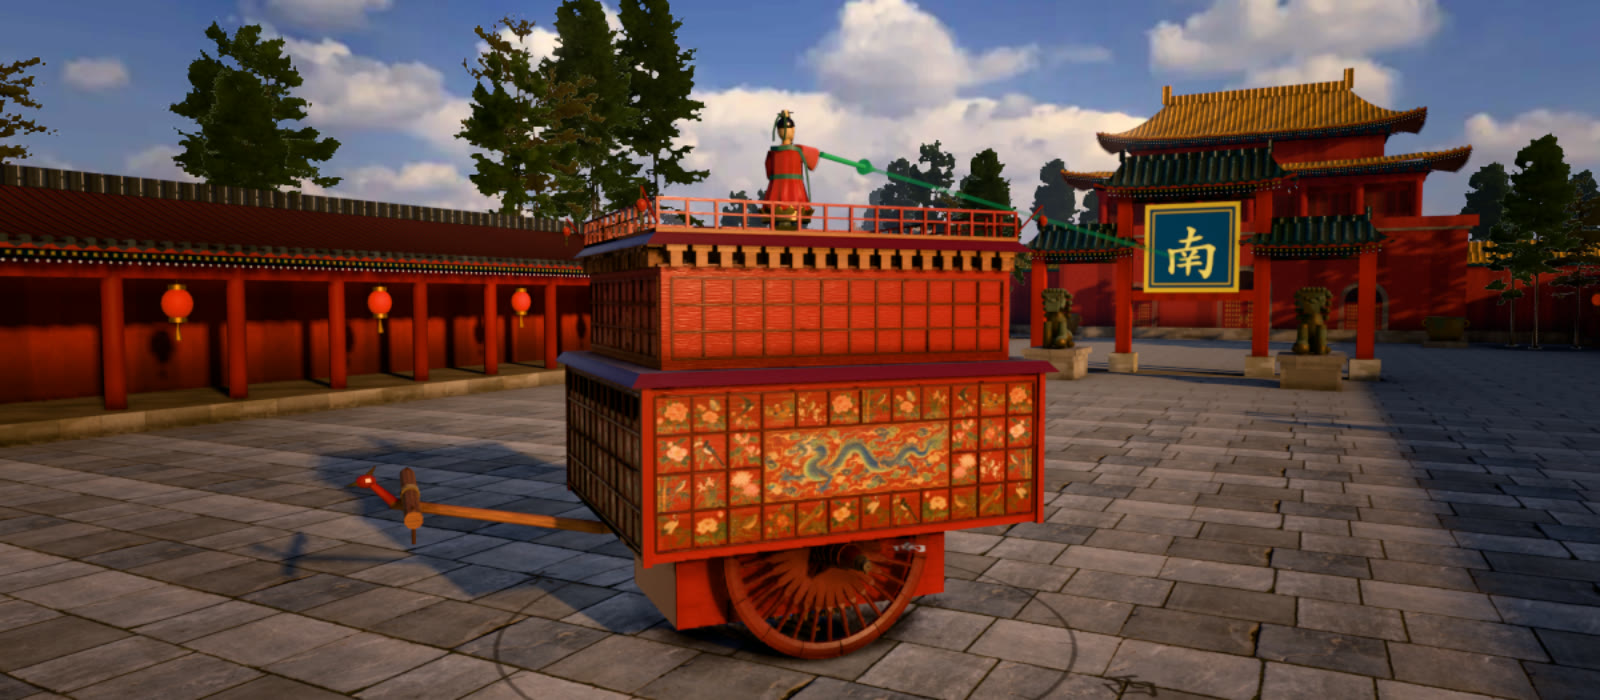
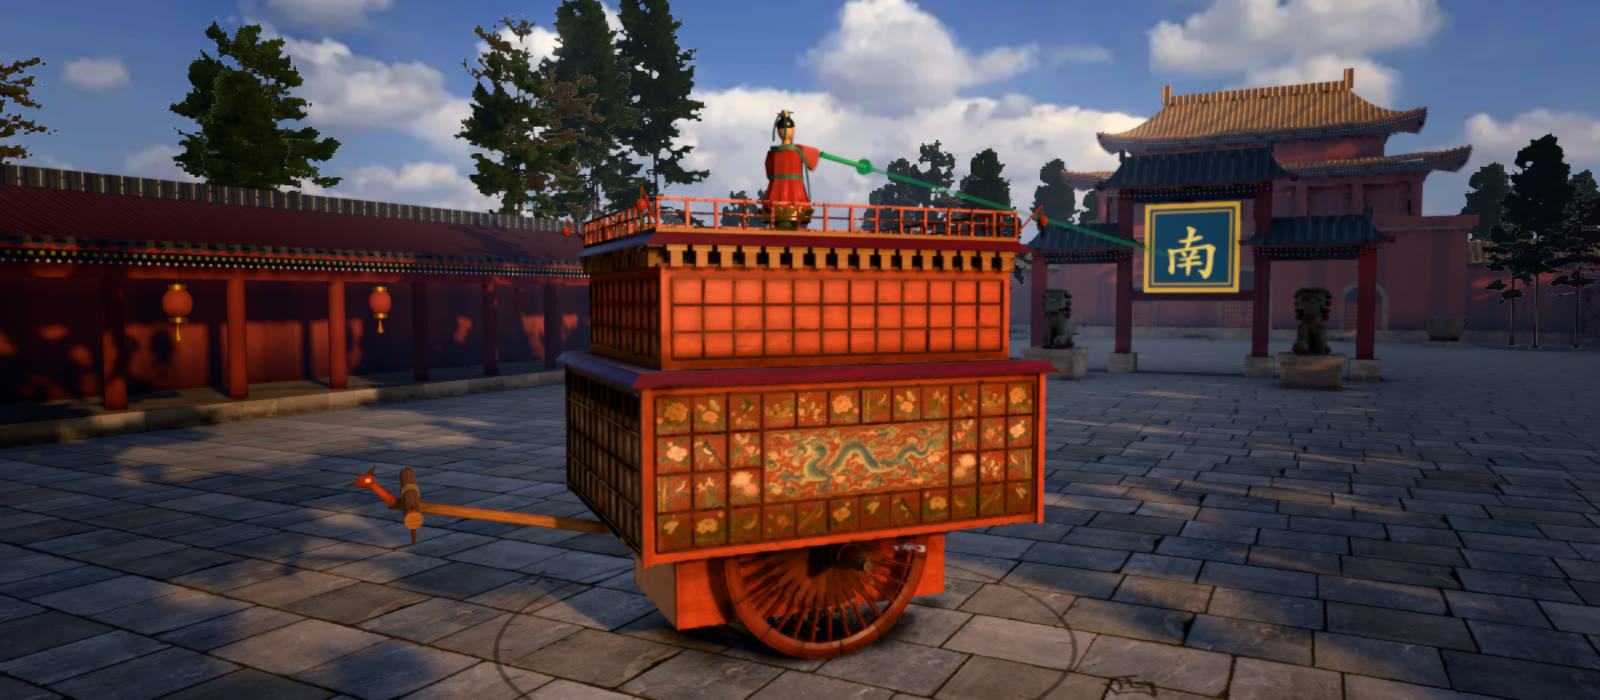
Promo images redone on c68ee24 (art, texture and camera rounds): og from higher up so the red chariots stand on the grey paving, not the red wall; the README loop 50° further round so the pointer runs across to the gate, starting and ending side-on with the near wheel showing; hero on the old camera

diff --git a/tools/promo/shots-gif.js b/tools/promo/shots-gif.js
@@ -1,5 +1,7 @@
 // README loop: the chariot turns exactly once on the spot (6 s), the camera
-// is still, on the sunny side; the gate on the right, the figure's hand on it all the way round.
+// is still, on the sunny side, 50° west of looking due south (as far round as
+// keeps the gate in, decision 0015) so the figure's pointer runs across the
+// picture to the gate on the right; it starts and ends side-on, the near wheel showing.
 (() => {
   const PRE = 1.0, LAP = 6.0;
   window.__T = { from: PRE, end: PRE + LAP };
@@ -7,12 +9,12 @@
   window.__shot = (st, P) => {
     if (!placed) {
       placed = true;
-      window.__place(0, 0, Math.PI / 2 + 0.3);
+      window.__place(0, 0, Math.PI / 4);
       P.app.state.speed = (2 * Math.PI) / LAP / 0.9;
     }
-    st.cmd = { fwd: 0, turn: -1 };
+    st.cmd = { fwd: 0, turn: window.__hold ? 0 : -1 }; // held still while rec.mjs waits for the picture to settle
     st.fov = 44;
-    st.cam = { pos: [-14, 9, -26], target: [6, 8, 14] };
+    st.cam = { pos: [-26.05, 6.5, -21.85], target: [-6.83, 6.3, 1.19] };
     st.dof = false;
   };
 })();

diff --git a/en.html b/en.html
@@ -23,7 +23,7 @@
     <meta property="og:image" content="https://hoveychen.github.io/zhinanche/images/og.en.jpg" />
     <meta property="og:image:width" content="1200" />
     <meta property="og:image:height" content="630" />
-    <meta property="og:image:alt" content="The same wooden cart three times as it turns round in a palace courtyard; each time the little wooden man on top points his arm at the red South Gate" />
+    <meta property="og:image:alt" content="The same red-lacquered, box-bodied chariot three times on the paving of a palace courtyard, turned three ways; each time the little wooden man on top points his arm at the South Gate in the top right" />
     <meta property="og:locale" content="en_US" />
     <meta property="og:locale:alternate" content="zh_CN" />
     <meta name="twitter:card" content="summary_large_image" />

diff --git a/index.html b/index.html
@@ -22,7 +22,7 @@
     <meta property="og:image" content="https://hoveychen.github.io/zhinanche/images/og.jpg" />
     <meta property="og:image:width" content="1200" />
     <meta property="og:image:height" content="630" />
-    <meta property="og:image:alt" content="同一辆木车在宫殿庭院里转了三个方向，车上的木人每次都伸手指着南门的红牌楼" />
+    <meta property="og:image:alt" content="同一辆红漆宽箱车在宫殿庭院的石板地上转了三个方向，车顶的木人每次都伸手指着右上角的南门" />
     <meta property="og:locale" content="zh_CN" />
     <meta property="og:locale:alternate" content="en_US" />
     <meta name="twitter:card" content="summary_large_image" />

diff --git a/tools/promo/plan.py b/tools/promo/plan.py
@@ -1,0 +1,28 @@
+import math, json, sys
+# Camera yaw that puts the gate (0, 105) at screen x = gate_s, and chariot spots at screen x = s1.. at distance dist.
+# plan.py camx camz camy fov aspect gate_s "s1,s2,s3" dist targety
+cx, cz, cy, fov, asp, gs = map(float, sys.argv[1:7]); ss = [float(v) for v in sys.argv[7].split(',')]; D = float(sys.argv[8]); ty = float(sys.argv[9])
+th = math.tan(math.radians(fov / 2)) * asp
+gx, gz = 0.0, 105.0
+ang_g = math.atan2(gz - cz, gx - cx)   # direction to gate in xz
+# screen-right r = cross(f, up) = (-fz, 0, fx) ; s = dot(p-C, r)/(dot(p-C,f)*th)
+# yaw a: f=(cos a, sin a). For gate at s=gs: tan(angle offset) = gs*th, the gate is to the screen right.
+# r = (-sin a, cos a)... dot(g, r) = |g| sin(ang_g - a)*(-1)? solve numerically
+def s_of(a, px, pz):
+    fx, fz = math.cos(a), math.sin(a); rx, rz = -fz, fx
+    # three: right = cross(f, up) with up=y: (fy*0 - fz*1, fz*0 - fx*0, fx*1 - fy*0) = (-fz, 0, fx)
+    dx, dz = px - cx, pz - cz
+    return (dx * rx + dz * rz) / ((dx * fx + dz * fz) * th)
+lo, hi = ang_g - 1.2, ang_g + 1.2
+for _ in range(80):
+    m = (lo + hi) / 2
+    if (s_of(m, gx, gz) - gs) * (s_of(lo, gx, gz) - gs) <= 0: hi = m
+    else: lo = m
+a = (lo + hi) / 2
+fx, fz = math.cos(a), math.sin(a); rx, rz = -fz, fx
+poses = []
+for s in ss:
+    px = cx + D * fx + s * D * th * rx; pz = cz + D * fz + s * D * th * rz
+    poses.append([round(px, 2), round(pz, 2)])
+T = [round(cx + 30 * fx, 2), ty, round(cz + 30 * fz, 2)]
+print(json.dumps({"pos": [cx, cy, cz], "target": T}), json.dumps(poses), 'check gate s', round(s_of(a, gx, gz), 3))

diff --git a/tools/promo/cmp.py b/tools/promo/cmp.py
@@ -1,0 +1,29 @@
+# cmp.py BEFORE_DIR AFTER_DIR OUT_DIR: old-vs-new sheets of the six README/og images (GIFs: 3 frames each)
+import sys
+from PIL import Image, ImageDraw, ImageFont, ImageSequence
+F=ImageFont.truetype('/System/Library/Fonts/Helvetica.ttc',26)
+def lab(im,t):
+    im=im.convert('RGB')
+    if t:
+        d=ImageDraw.Draw(im); w=d.textlength(t,font=F); d.rectangle([0,0,w+20,40],fill=(0,0,0)); d.text((10,6),t,fill='white',font=F)
+    return im
+def grid(rows,out,w):
+    rows=[[lab(im.resize((w,int(im.height*w/im.width)),Image.LANCZOS),t) for im,t in r] for r in rows]
+    H=sum(max(i.height for i in r) for r in rows); W=max(sum(i.width for i in r) for r in rows)
+    o=Image.new('RGB',(W,H),'white'); y=0
+    for r in rows:
+        x=0
+        for i in r: o.paste(i,(x,y)); x+=i.width
+        y+=max(i.height for i in r)
+    o.save(out,quality=88)
+def frames(p,idx):
+    fs=[f.copy() for f in ImageSequence.Iterator(Image.open(p))]; return [fs[i] for i in idx], len(fs)
+B, A, D = (a.rstrip('/') + '/' for a in sys.argv[1:4])
+O=Image.open
+for n in ['og.jpg','og.en.jpg','readme-hero.jpg','readme-hero.en.jpg']:
+    grid([[(O(B+n),'OLD '+n)],[(O(A+n),'NEW '+n)]],D+'cmp-'+n.replace('.jpg','')+'.jpg',1200)
+grid([[(O(B+'og.jpg'),'OLD 500px'),(O(A+'og.jpg'),'NEW 500px (thumbnail)')]],D+'cmp-og-thumb.jpg',500)
+for g in ['readme-lap','readme-lap.en']:
+    ob,n1=frames(B+g+'.gif',[0,18,40]); nw,n2=frames(A+g+'.gif',[0,18,40])
+    print(g,n1,n2)
+    grid([[(f,'OLD f%d'%i) for f,i in zip(ob,[0,18,40])],[(f,'NEW f%d'%i) for f,i in zip(nw,[0,18,40])]],D+f'cmp-{g}.jpg',560)

diff --git a/tools/promo/comp3.py b/tools/promo/comp3.py
@@ -1,0 +1,23 @@
+# comp3.py DIR N alphas [order far->near]
+# poseI.png (car + its shadow), poseIns.png (car, no shadow), bg.png (no car).
+# Body mask = poseIns vs bg; shadow = poseI / poseIns outside the body. All shadows are
+# multiplied in first, then the bodies far to near, so no car's shadow lands on another's body.
+import sys
+import numpy as np
+from PIL import Image, ImageFilter
+d = sys.argv[1]; n = int(sys.argv[2]); al = [float(a) for a in sys.argv[3].split(',')]
+order = [int(i) for i in sys.argv[4].split(',')] if len(sys.argv) > 4 else list(range(n))
+L = lambda p: np.asarray(Image.open(p).convert('RGB')).astype(np.float32)
+def blur(m, r=1.0):
+    return np.asarray(Image.fromarray((np.clip(m, 0, 1) * 255).astype(np.uint8)).filter(ImageFilter.GaussianBlur(r))).astype(np.float32) / 255
+bg = L(f'{d}/bg.png'); out = bg.copy(); bodies = []
+for i in range(n):
+    im = L(f'{d}/pose{i}.png'); ns = L(f'{d}/pose{i}ns.png')
+    m = blur(np.clip((np.abs(ns - bg).max(axis=2) - 6) / 18, 0, 1))
+    r = np.clip((im + 2) / (ns + 2), 0, 1)
+    out = out * (1 - (1 - r) * (1 - m)[..., None] * al[i])
+    bodies.append((im, m))
+for i in order:
+    im, m = bodies[i]; a = (m * al[i])[..., None]
+    out = out * (1 - a) + im * a
+Image.fromarray(out.clip(0, 255).astype(np.uint8)).save(f'{d}/comp.png')

diff --git a/tools/promo/README.md b/tools/promo/README.md
@@ -1,0 +1,44 @@
+# Promo images
+
+How `images/og*.jpg`, `images/readme-hero*.jpg` and `images/readme-lap*.gif` are made. Not part of the site.
+
+Setup: run from this folder with playwright beside it (`node_modules` with `playwright`, driving the system Chrome; not a dependency of the site) and the site served from the repo root, e.g. `PORT=8980 node tools/serve.mjs`, then `export PORT_=8980`. Every script opens the page with `?promo&quality=high&free`, waits for all ten photographed sets in `body[data-photo]` (sky plaster ground roof dougong iron wood trees ao murals) and for `body[data-still]=settled` before it shoots. One browser at a time.
+
+Coordinates are the courtyard's (three.js): the chariot at the origin, the gate pinned at (0, 105), which is south; `pose` is `[x, z, heading]`, heading π/2 facing north.
+
+## README hero (1600×700)
+
+```sh
+for L in zh en; do
+  LANG_=$L SIZE=800x350 DPR=2 JOBS='[{"name":"hero-'$L'","pose":[0,0,0.9],"cam":{"pos":[-13.5,9.6,-24.5],"target":[7,7.2,14]},"fov":40}]' node still.mjs
+done
+ffmpeg -i hero-zh.png -q:v 3 ../../images/readme-hero.jpg; ffmpeg -i hero-en.png -q:v 3 ../../images/readme-hero.en.jpg
+```
+
+## og:image (1200×630)
+
+The same chariot three times, turned three ways, composited (`comp3.py`) over the courtyard without it. The camera is high (26) so the red bodies stand on the grey paving, not against the red wall; the gate sits top right (`plan.py` puts it at screen x 0.86).
+
+```sh
+P='[[8.95,-13.66,0.4],[-3.81,-2.6,1.9],[-16.35,8.27,3.4]]'
+for L in zh en; do
+  sh og.sh f-$L $L '{"pos":[-37,26,-40],"target":[-17.35,18.5,-17.33]}' 34 "$P" 2
+  uv run --with pillow --with numpy python comp3.py f-$L 3 0.75,0.88,1
+  LANG_=$L DIR=f-$L node title.mjs        # f-$L/titled.png, then down to 1200×630, JPEG q86
+done
+```
+
+## README loop (560×315 GIF)
+
+`shots-gif.js`: one turn on the spot in 6 s, the camera still, 50° west of looking due south (as far round as keeps the gate in the picture, decision 0015) so the figure's pointer runs across to the gate; it starts and ends side-on with the near wheel showing.
+
+```sh
+for L in zh en; do
+  LANG_=$L DIAL=left GIF=1 SHOTS=shots-gif.js W=1120 H=630 OUT=fg-$L node rec.mjs
+done
+sh gif.sh fg-zh ../../images/readme-lap.gif; sh gif.sh fg-en ../../images/readme-lap.en.gif
+```
+
+## Checking
+
+`uv run --with pillow python cmp.py BEFORE_DIR ../../images OUT_DIR` lays the old images (`git show main:images/…`) over the new, three frames of each GIF, and the og image at 500 px as a link preview shows it.

diff --git a/README.en.md b/README.en.md
@@ -2,9 +2,9 @@
 
 [中文](README.md) · **English**
 
-![A wooden cart in a palace courtyard; the little wooden man on top points his arm at the gate marked South](images/readme-hero.en.jpg)
+![A red-lacquered, box-bodied chariot in a palace courtyard; the little wooden man on top points his arm at the gate marked South](images/readme-hero.en.jpg)
 
-<p align="center"><img src="images/readme-lap.en.gif" width="560" alt="The cart spins a full turn on the spot while the wooden man's arm stays pointed at the south gate on the right; the compass dial in the top left corner reads Pointing due south all the way round"><br><sub>A full turn on the spot. The man never stops pointing south.</sub></p>
+<p align="center"><img src="images/readme-lap.en.gif" width="560" alt="The red box-bodied chariot spins a full turn on the spot while the wooden man's arm stays pointed at the south gate on the right; the compass dial in the top left corner reads Pointing due south all the way round"><br><sub>A full turn on the spot. The man never stops pointing south.</sub></p>
 
 A two-wheeled cart with a wooden man standing on it. Drive it anywhere, turn it however you like, and the man's arm keeps pointing south.
 

diff --git a/README.md b/README.md
@@ -2,9 +2,9 @@
 
 **中文** · [English](README.en.md)
 
-![庭院里的木车，车上的木人伸手指着南门](images/readme-hero.jpg)
+![庭院里的红漆宽箱车，车顶的木人伸手指着南门](images/readme-hero.jpg)
 
-<p align="center"><img src="images/readme-lap.gif" width="560" alt="车在原地转了一整圈，木人的手始终指着右边的南门；左上角的罗盘一直写着「木人指着正南」"><br><sub>车原地转一整圈，木人一直指着南门（镜头不动）</sub></p>
+<p align="center"><img src="images/readme-lap.gif" width="560" alt="红漆宽箱车在原地转了一整圈，木人的手始终指着右边的南门；左上角的罗盘一直写着「木人指着正南」"><br><sub>车原地转一整圈，木人一直指着南门（镜头不动）</sub></p>
 
 一辆两轮车，车上站着一个木人。车怎么拐弯，木人的手都一直指着南方。它里面没有磁铁，只有齿轮。
 
